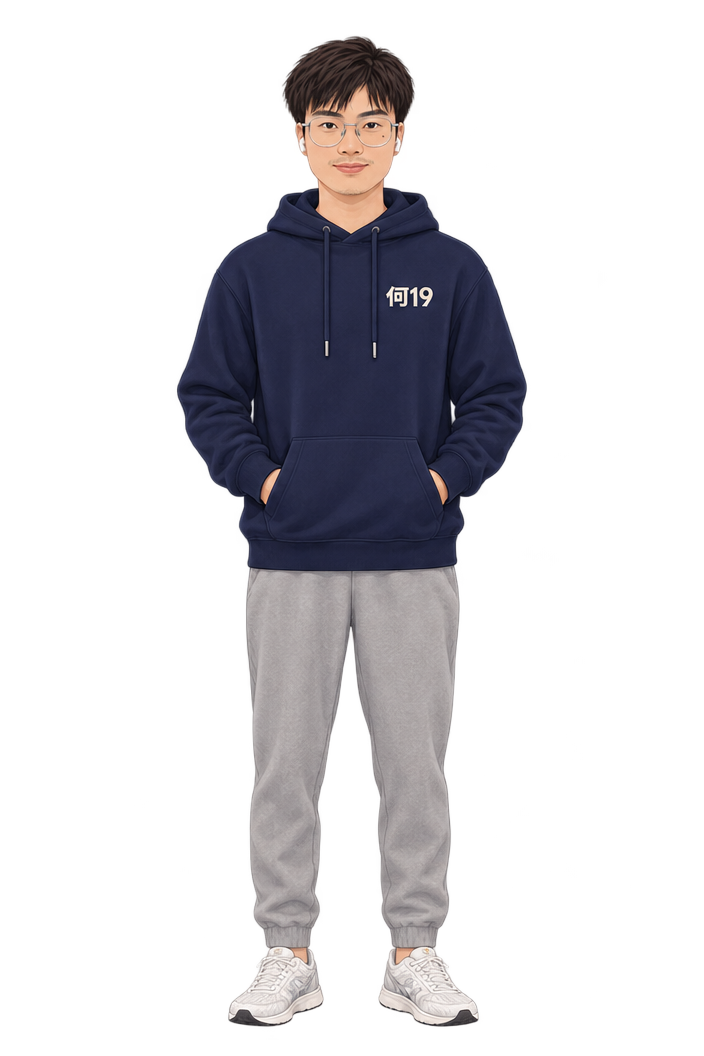
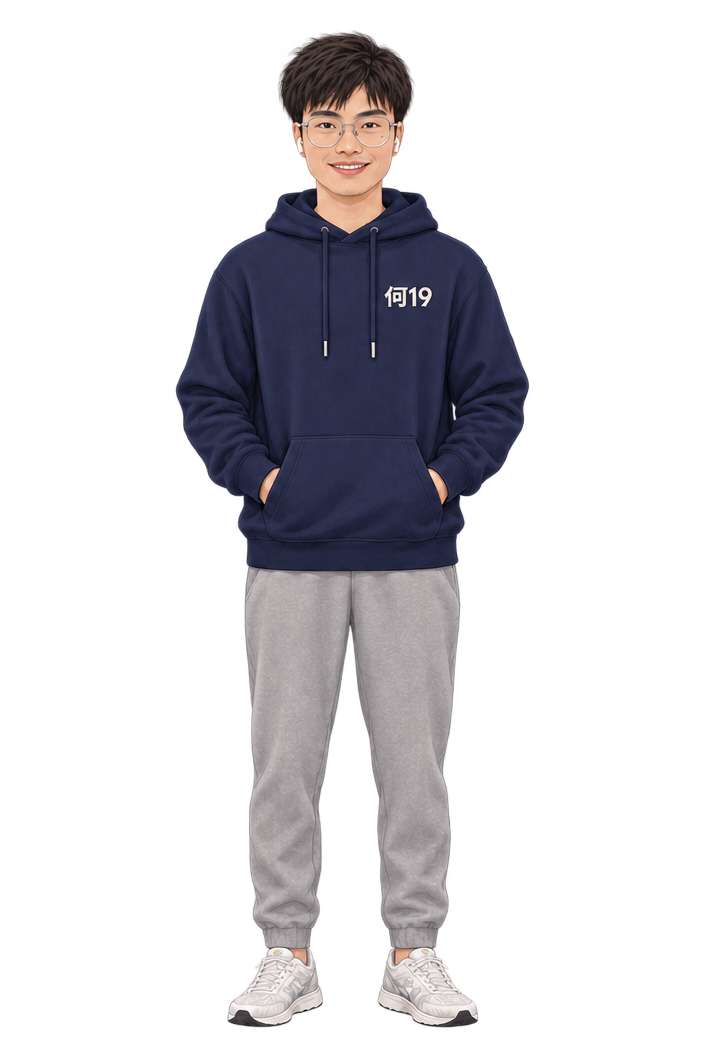
Vary the expressions on He19 full-body illustrations

diff --git a/kit/README.md b/kit/README.md
@@ -18,7 +18,7 @@
 | 社媒头像 | [1024 × 1024 方形头像](identity/avatar-square.png) |
 | 在封面或 PPT 里摆放头像 | [透明底圆形头像](identity/avatar-transparent.png) |
 | 讲者介绍页、个人主页或封面侧边 | [透明底全身像 · 1024 × 1536](identity/full-body-transparent.png) |
-| 运动休闲造型 | [连帽卫衣全身像](identity/full-body-hoodie.png) · [运动外套与斜挎包全身像](identity/full-body-crossbody.png)，均为 704 × 1056 透明 PNG |
+| 运动休闲造型 | [连帽卫衣 · 自然露齿笑](identity/full-body-hoodie.png) · [斜挎包 · 微微偏头、轻挑眉](identity/full-body-crossbody.png)，均为 704 × 1056 透明 PNG |
 | 浅色画面角落 | [深蓝字透明署名](identity/signature-light.png) |
 | 深色画面角落 | [浅色字透明署名](identity/signature-dark.png) |
 | 统一查看色板、字体和角标署名 | [品牌资产总览](../output/he19-brand-assets.png) |
